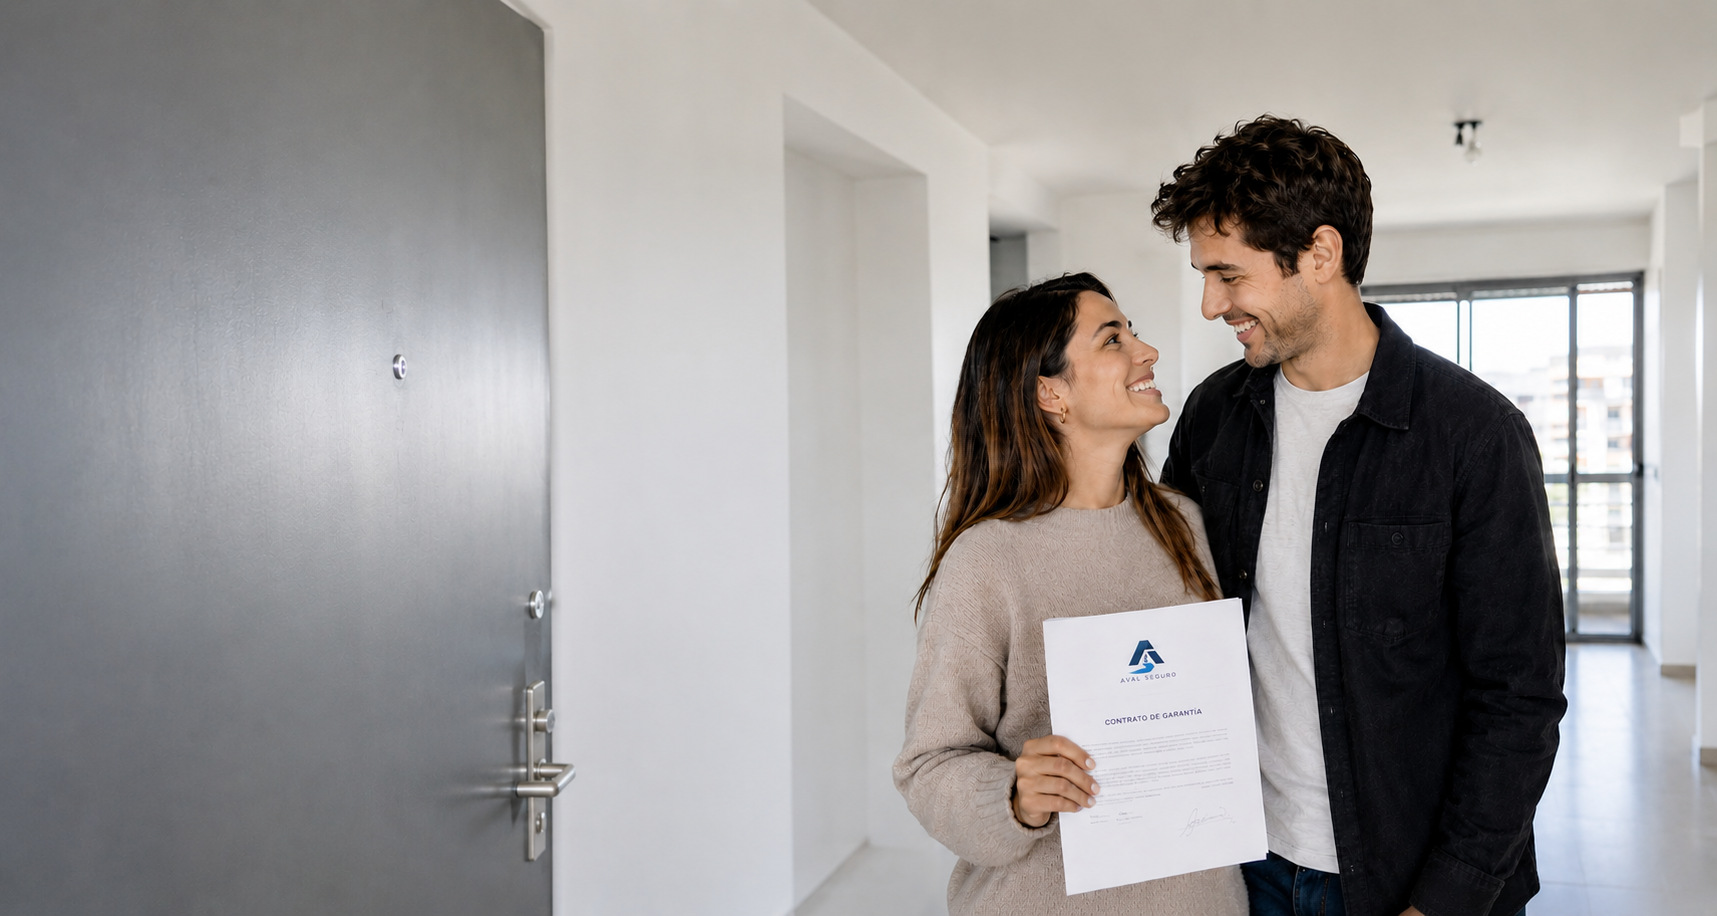
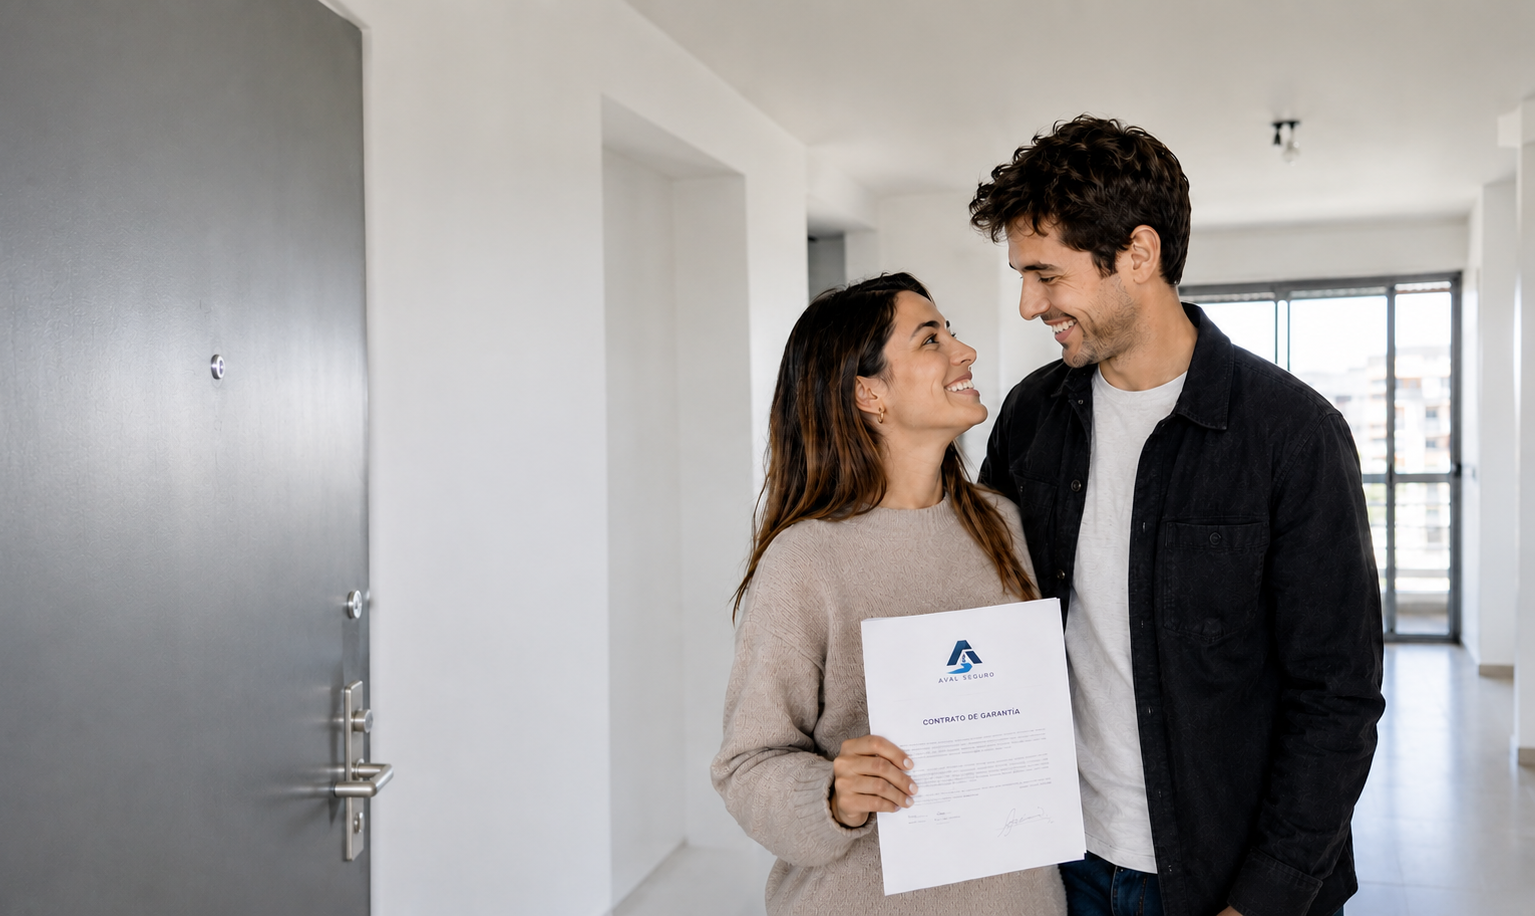
Add files via upload

diff --git a/assets/css/main.css b/assets/css/main.css
@@ -819,7 +819,7 @@ section,
 
 .hero:before {
   content: "";
-  background: color-mix(in srgb, var(--background-color), transparent 85%);
+  background: color-mix(in srgb, var(--background-color), transparent 70%);
   position: absolute;
   bottom: 0;
   top: 0;
@@ -866,26 +866,6 @@ section,
 .hero .btn-get-started:hover {
   color: var(--contrast-color);
   box-shadow: 0 8px 28px rgba(0, 0, 0, 0.3);
-}
-
-.hero .btn-watch-video {
-  font-size: 16px;
-  transition: 0.5s;
-  margin-left: 25px;
-  color: var(--default-color);
-  font-weight: 600;
-}
-
-.hero .btn-watch-video i {
-  color: var(--accent-color);
-  font-size: 32px;
-  transition: 0.3s;
-  line-height: 0;
-  margin-right: 8px;
-}
-
-.hero .btn-watch-video:hover {
-  color: var(--accent-color);
 }
 
 .hero .btn-watch-video:hover i {
@@ -1720,3 +1700,5 @@ section,
     backdrop-filter: blur(3px);
     transition: .3s ease;
 }
+
+
